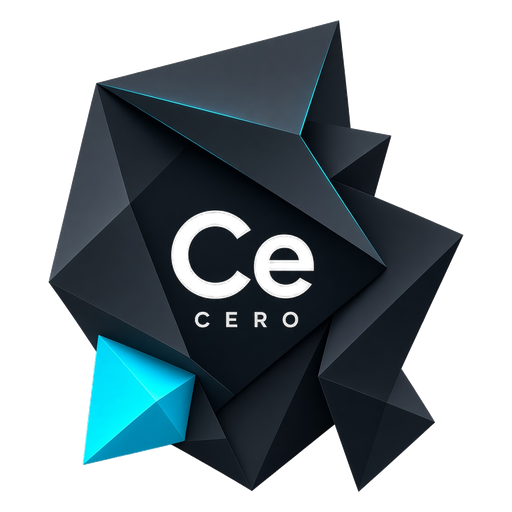
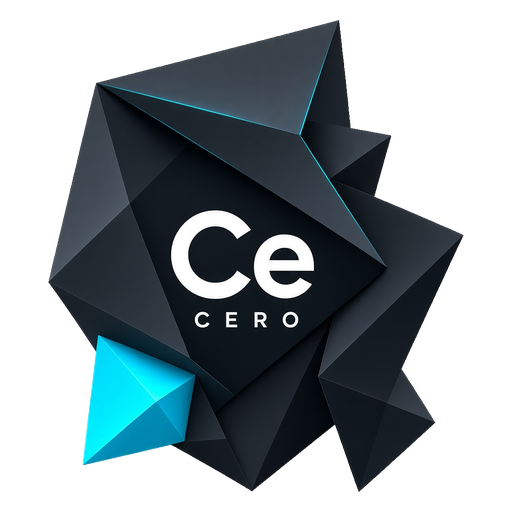
feat(marca): el isotipo con los bordes limpios
Misma marca, mismo encuadre y mismos tamaños —512, 256 y 32— para que no se
mueva nada del diseño. Lo que cambia es el recorte: los anteriores traían el
borde dentado del original y se notaba sobre todo en la cabecera, donde el
isotipo va pequeño y el diente de sierra compite con el texto de al lado.

diff --git a/java/cero-web/src/main/resources/estaticos/terminal.js b/java/cero-web/src/main/resources/estaticos/terminal.js
@@ -70,7 +70,7 @@
       { t: 'giro', v: 'cero-web',  dur: 500,  fin: '[INFO] cero-web ............... SUCCESS [    2.6 s]    74 ✓' },
       { t: 'blank' },
       { t: 'out', v: '[INFO] BUILD SUCCESS', cls: 'ok' },
-      { t: 'contar', hasta: 1718, dur: 900,
+      { t: 'contar', hasta: 1761, dur: 900,
         plantilla: es ? '        {n} pruebas · 0 fallos · 0 dependencias · 372 KB'
                       : '        {n} tests · 0 failures · 0 dependencies · 372 KB', cls: 'ok' },
       { t: 'blank' },

diff --git a/java/cero-web/src/main/resources/estaticos/social.html b/java/cero-web/src/main/resources/estaticos/social.html
@@ -49,6 +49,6 @@
   <div class="c"><b>106</b><i>ms de arranque</i></div>
   <div class="c"><b>0</b><i>dependencias</i></div>
   <div class="c"><b>372</b><i>KB desplegado</i></div>
-  <div class="c"><b>1718</b><i>pruebas</i></div>
+  <div class="c"><b>1761</b><i>pruebas</i></div>
   <div class="c"><b>8</b><i>módulos</i></div>
 </div>
